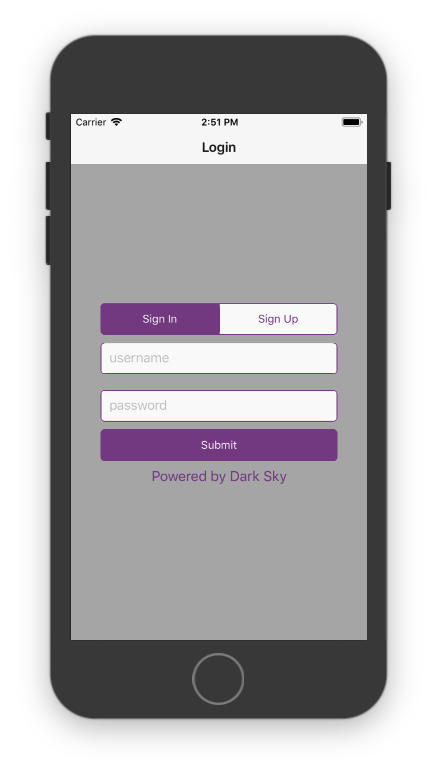
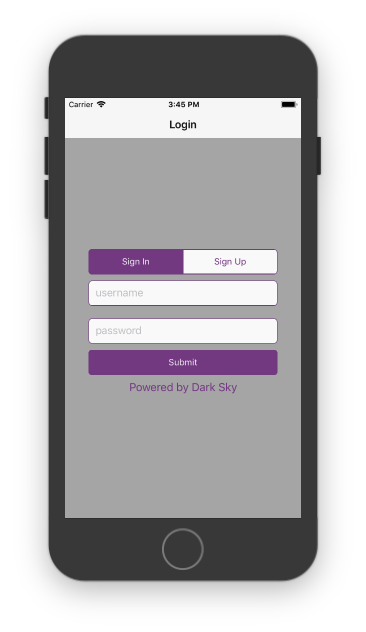
built out Native-Weather Component and updated photos. Comment cleaning.

Changed region(s): [[0.0902, 0.0301, 0.9016, 0.962], [0.2104, 0.3908, 0.7814, 0.6313]]

diff --git a/src/main/body/native-weather/Component.js b/src/main/body/native-weather/Component.js
@@ -1,50 +1,76 @@
 import React from "react";
+import nativeWeatherToday from "../../../assets/native-weather-today.png";
+import nativeWeatherForecast from "../../../assets/native-weather-forecast.png";
+import nativeWeatherLogin from "../../../assets/native-weather-login.png";
 
 export default function NativeWeatherComponent() {
     const nativeWeatherViewStyles = {
         alignContent: "center",
-        width: "80%",
-        marginLeft: "10%",
-        marginRight: "10%",
+        width: "100%",
         textAlign: "center",
         flex: "1",
-        flexDirection: "row"
+        display: "flex",
+        flexDirection: "column",
+        justifyContent: "space-around",
+        flexWrap: "wrap",
+        alignItems: "justify"
     };
 
     const headTextStyles = {
         fontFamily: "'Lato', sans-serif",
-        fontWeight: "100",
-        fontStyle: "italic",
-        fontSize: ".9em",
-        marginTop: "25px",
-        marginLeft: "25px",
-        textAlign: "justify"
-    };
-
-    const bodyTextStyles = {
-        fontFamily: "'Lato', sans-serif",
-        fontSize: ".55em",
         fontWeight: "300",
-        marginBottom: "20px",
-        textAlign: "justify",
-        lineHeight: "125%",
-        marginLeft: "25px",
-        marginRight: "25px",
-        letterSpacing: "0px"
+        fontSize: ".7em",
+        margin: "15px 15px",
+        textAlign: "left",
+        minWidth: "175px",
+        flexWrap: "no-wrap"
     };
 
     return (
         <div style={nativeWeatherViewStyles}>
-            <h2 style={headTextStyles}>
-                Native Weather is my first venture into mobile coding...
-            </h2>
+            <div className="nativeWeatherRowStyles">
+                <img className="imageStyles" src={nativeWeatherToday} alt="" />
+                <h2 style={headTextStyles}>
+                    Native Weather was my first foray into mobile programming,
+                    pair programming, and multi-user version control.
+                </h2>
+            </div>
 
-            <a
-                target="_blank"
-                rel="noopener noreferrer"
-                href="https://github.com/vschool-september-2017/native-weather">
-                Link
-            </a>
+            <div className="nativeWeatherRowStyles">
+                <img
+                    className="imageStyles"
+                    src={nativeWeatherForecast}
+                    alt=""
+                />
+                <h2 style={headTextStyles}>
+                    We queried the{" "}
+                    <a className="blueLinks" href="https://darksky.net">
+                        Dark Sky API
+                    </a>{" "}
+                    to provide current, daily, and weekly weather data based on
+                    the geolocation of the device.
+                </h2>
+            </div>
+            <div className="nativeWeatherRowStyles">
+                <img className="imageStyles" src={nativeWeatherLogin} alt="" />
+                <h2 style={headTextStyles}>
+                    And just becuase we could, we incorporated user
+                    authentication. Your weather is your business and yours
+                    alone.
+                </h2>
+            </div>
+
+            <h2 style={headTextStyles}>
+                See the{" "}
+                <a
+                    target="_blank"
+                    rel="noopener noreferrer"
+                    href="https://github.com/vschool-september-2017/native-weather"
+                    className="blueLinks">
+                    Github repo
+                </a>
+                .
+            </h2>
         </div>
     );
 }

diff --git a/src/main/body/Component.js b/src/main/body/Component.js
@@ -1,7 +1,6 @@
 import React from "react";
 import HomeComponent from "./home/Component";
 import PortfolioComponent from "./portfolio/Component";
-import SkillsComponent from "./skills/Component";
 import SnapCRMComponent from "./snap-crm/Component";
 import NativeWeatherComponent from "./native-weather/Component";
 import { Route, Switch } from "react-router-dom";
@@ -34,9 +33,6 @@ function BodyComponent(props) {
                         />
                     </Switch>
                 </div>
-                {/* <div>
-                    <SkillsComponent />
-                </div> */}
             </div>
         </h2>
     );

diff --git a/src/index.css b/src/index.css
@@ -45,7 +45,7 @@ body {
     text-decoration: none;
 }
 
-/*Responsive styling below*/
+/*Responsive (and related) styling below*/
 
 .a {
     flex-wrap: wrap;
@@ -114,6 +114,13 @@ body {
     display: none;
 }
 
+.nativeWeatherRowStyles {
+    display: flex;
+    flex-direction: row;
+    align-items: center;
+    flex-wrap: nowrap;
+}
+
 @media screen and (max-width: 768px) {
     .a {
         order: 1;
@@ -165,6 +172,10 @@ body {
         height: 30px;
         left: 36px;
         top: 36px;
+    }
+
+    .nativeWeatherRowStyles {
+        flex-wrap: wrap;
     }
 }
 

diff --git a/src/main/body/snap-crm/Component.js b/src/main/body/snap-crm/Component.js
@@ -22,7 +22,6 @@ export default function SnapCRMComponent() {
         fontSize: ".7em",
         margin: "15px 15px",
         textAlign: "justify"
-        // display: "block"
     };
 
     return (
